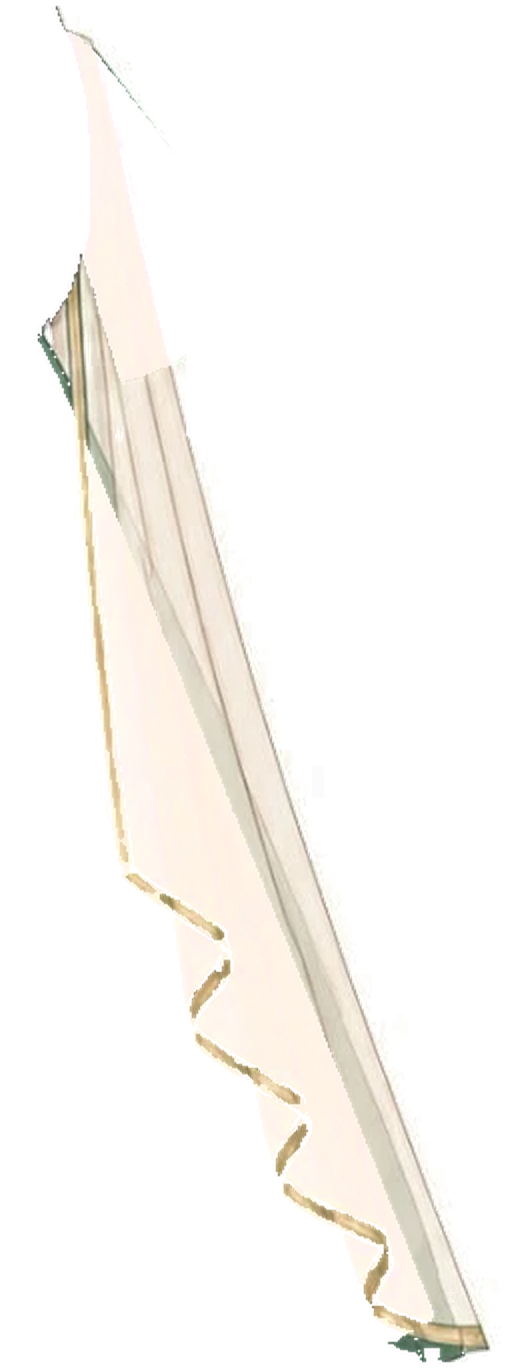
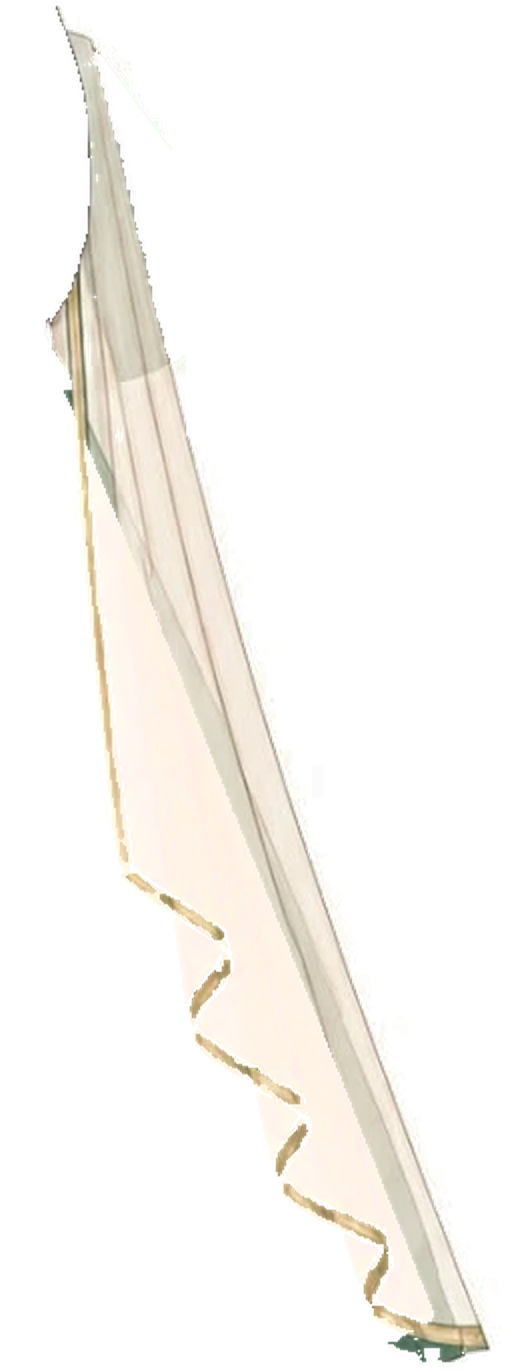
Fix the dupatta glitches over the right arm
- Front and back: the outstretched arm is drawn in front of the painted
  dupatta, so leftover painted sleeve/arm edges in the cloth no longer
  float over the arm
- Rebuild both dupatta cut-outs with a backdrop that tells sleeve fabric
  from arm and background, removing the pale boxes beside the arm
- Back: the painted elbow showing through the cloth (a pink wedge) is
  filled in from the surrounding cloth

Claude-Session: https://claude.ai/code/session_01TYPUusnuhtBJ7Z9aDFcSGW

Changed region(s): [[0.1221, 0.0, 0.3359, 0.2759], [0.0611, 0.2453, 0.1221, 0.2759], [0.1221, 0.2759, 0.1527, 0.3066]]

diff --git a/src/components/MannequinStage.tsx b/src/components/MannequinStage.tsx
@@ -1609,6 +1609,31 @@ interface BlouseDetailsResult {
             <clipPath id="below-collar-clip">
               <rect x="0" y="150" width={STAGE_W} height={STAGE_H} />
             </clipPath>
+            {/* The outstretched arm is in front of the painted dupatta below the shoulder (cloth painted
+                over it would be leftover painting floating over the arm) */}
+            <clipPath id="dupatta-off-arm-clip">
+              <path
+                clipRule="evenodd"
+                d={`M 0 0 H ${STAGE_W} V ${STAGE_H} H 0 Z ${
+                  armPose === 'stretched'
+                    ? svgPath(
+                        mir(
+                          (() => {
+                            const s0 = 30, s1 = ARM_UPPER_LEN + ARM_FORE_LEN + 60, n = 24;
+                            const side = (sd: 1 | -1) =>
+                              Array.from({ length: n + 1 }, (_, i) => {
+                                const a = armAt(s0 + ((s1 - s0) * i) / n);
+                                const m = a.w + 0.6; // just the arm itself: the cloth falls behind it
+                                return [a.p[0] + sd * a.n[0] * m, a.p[1] + sd * a.n[1] * m];
+                              });
+                            return [...side(1), ...side(-1).reverse()];
+                          })()
+                        )
+                      )
+                    : ''
+                }`}
+              />
+            </clipPath>
             <clipPath id="above-skirt-clip">
               <rect x="0" y="0" width={STAGE_W} height={botTop + 1} />
             </clipPath>
@@ -2952,7 +2977,7 @@ interface BlouseDetailsResult {
 
           {/* Dupatta / Drape Textures & 2D Game Linework */}
           {painted && drapeId === 'oneShoulder' && (
-            <g id="drape-painted" opacity={fade}>
+            <g id="drape-painted" opacity={fade} clipPath="url(#dupatta-off-arm-clip)">
               {paintedImage(PV.dupattaOneShoulder)}
             </g>
           )}

diff --git a/scripts/painted-assets/build_back.py b/scripts/painted-assets/build_back.py
@@ -230,9 +230,10 @@ B = np.where(bl_sil[..., None], bl_full, np.array([247, 246, 242.]))
 B = np.where(sk_sil[..., None], skirt_full, B)
 # the painted right sleeve sits under the dupatta; treat it as backdrop so the cut-out
 # carries only the sheer cloth, never the sleeve (it would show over bare arms)
-right_sleeve = green & (X > CX + 20) & (Y > 140) & (Y < 300)
-right_sleeve = np.asarray(Image.fromarray((right_sleeve * 255).astype(np.uint8)).filter(ImageFilter.MaxFilter(15))) > 0
-B = np.where(right_sleeve[..., None], bl_full, B)
+# a green tint means sleeve fabric under the cloth; no tint means arm or background
+tint = (a[..., 1] - a[..., 0]) > 2
+upper_side = (X > CX + 20) & (Y > 140) & (Y < 330)
+B = np.where((upper_side & tint)[..., None], bl_full, np.where((upper_side & ~tint & ~sk_sil)[..., None], np.array([247, 246, 242.]), B))
 D = np.array([250, 244, 232.])
 diff = a - B; dirv = D - B
 al = np.clip((diff * dirv).sum(2) / np.maximum((dirv * dirv).sum(2), 1), 0, 1)
@@ -259,6 +260,19 @@ while q:
 al = np.where(keep, al, 0)
 col = np.where(al[..., None] > 0, (a - (1 - al[..., None]) * B) / np.maximum(al[..., None], 0.05), D)
 col = np.where((gold & pm)[..., None], a, np.clip(col, 0, 255))
+# the painted right elbow shows through the cloth here as a pink wedge; the app draws its own
+# arm elsewhere, so fill it in smoothly from the surrounding cloth (colour and sheerness)
+elbow = (X >= 356) & (X <= 418) & (Y >= 282) & (Y <= 364)
+ghost = elbow & (((a[..., 0] - a[..., 1]) > 8) | ((a[..., 0] - a[..., 2]) > 28)) & ~gold & (al > 0)
+ghost = np.asarray(Image.fromarray((ghost * 255).astype(np.uint8)).filter(ImageFilter.MaxFilter(7))) > 0
+ghost &= elbow & (al > 0)
+known = (al > 0.05) & ~ghost & ~gold & (Y > 250) & (Y < 400) & (X > 330)
+fill_col = pullpush(col, known)
+fill_al = pullpush(np.dstack([al] * 3), known)[..., 0]
+feather = np.asarray(Image.fromarray((ghost * 255).astype(np.uint8)).filter(ImageFilter.GaussianBlur(2))) / 255.0
+feather = np.maximum(feather, ghost.astype(float))
+col = col * (1 - feather[..., None]) + fill_col * feather[..., None]
+al = np.where(al > 0, al * (1 - feather) + fill_al * feather, al)
 ys, xs = np.nonzero(al > 0)
 y0, y1, x0, x1 = ys.min(), ys.max() + 1, xs.min(), xs.max() + 1
 save('dupatta-one-shoulder-back', col[y0:y1, x0:x1], al[y0:y1, x0:x1], x0, y0)

diff --git a/scripts/painted-assets/build.py b/scripts/painted-assets/build.py
@@ -166,6 +166,11 @@ bl_sil=mirror_mask(green&(((Y<282)&(Y>130))|sleeve_zone)&(X<CX))
 sk_sil=mirror_mask(green&(Y>=283)&~sleeve_zone&(X<CX))
 B=np.where(bl_sil[...,None], bl_full, np.array([247,246,242.]))
 B=np.where(sk_sil[...,None], skirt_full, B)
+# beside the body the painted sleeve isn't a mirror of the left one: a green tint means
+# sleeve fabric under the cloth, no tint means arm or background
+tint=(a[...,1]-a[...,0])>2
+upper_side=(X>CX+20)&(Y<330)
+B=np.where((upper_side&tint)[...,None], bl_full, np.where((upper_side&~tint&~sk_sil)[...,None], np.array([247,246,242.]), B))
 D=np.array([250,244,232.])
 diff=a-B; dirv=D-B
 al=np.clip((diff*dirv).sum(2)/np.maximum((dirv*dirv).sum(2),1),0,1)
